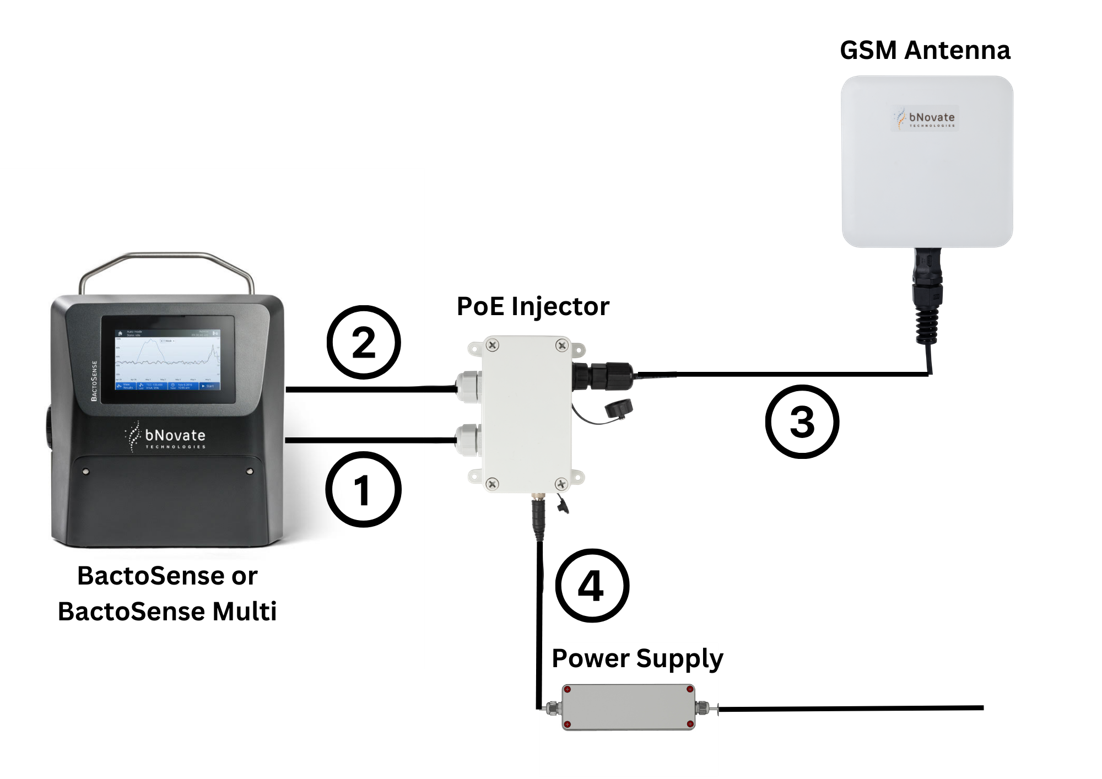
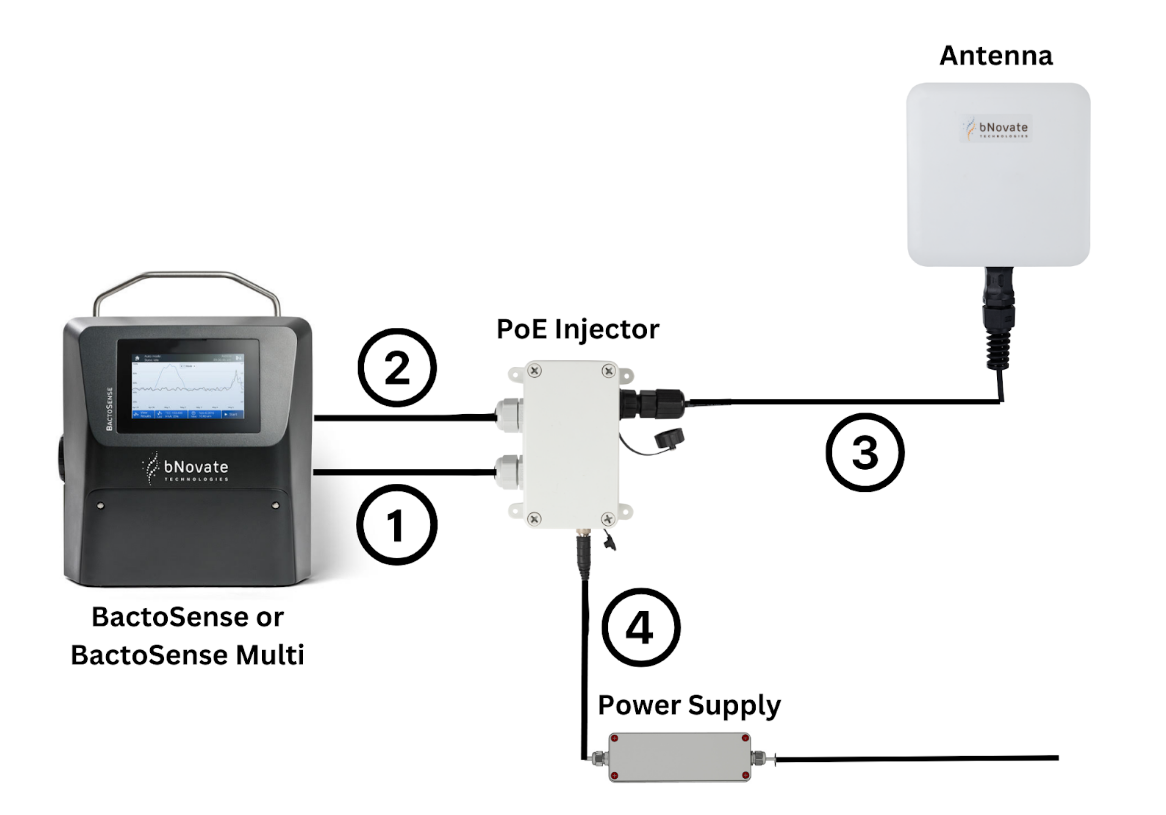
Portal: esthetics

Changed region(s): [[0.0309, 0.0308, 0.9564, 0.9859]]

diff --git a/bnovate/www/connect.html b/bnovate/www/connect.html
@@ -28,7 +28,7 @@
     
     <ol class="wizard-ribbon my-3">
         <li class="wizard-step current" data-step="1">{{ _("Connect Hardware") }}</li>
-        <li class="wizard-step" data-step="2">{{ _("Configure Network") }}</li>
+        <li class="wizard-step" data-step="2">{{ _("Configure BactoSense") }}</li>
         <li class="wizard-step" data-step="3">{{ _("Configure BactoLink") }}</li>
         <li class="wizard-step" data-step="4">{{ _("Connect") }}</li>
     </ol>
@@ -42,11 +42,12 @@
                 </div>
                 <div class="col-lg">
                     <h3>Connect your hardware like in the picture</h2>
-                    <ul>
-                        <li>Power supply to PoE injector</li>
-                        <li>PoE injector to Antenna</li>
-                        <li>PoE injector to BactoSense: ethernet and power</li>
-                    </ul>
+                    <ol>
+                        <li>Ethernet Connection between PoE-Injector and the RS45 port of the BactoSense.</li>
+                        <li>Power Connection between PoE-Injector and power port of the BactoSense.</li>
+                        <li>Ethernet Connection between PoE-Injector and GSM Antenna (10m cable).</li>
+                        <li>Power Supply to PoE-Injector. Note that the Power Supply is delivered with the BactoSense, not with the BactoLink.</li>
+                    </ol>
                 </div>
             </div>
         </div>
@@ -61,6 +62,7 @@
                     <img src="/assets/bnovate/img/guide/service_settings.png" style="border: 0.5px solid black">
                 </div>
                 <div class="col-lg">
+                    <h3>Configure network settings of the BactoSense</h2>
                     <ul>
                         <li>Check whether DHCP is activated. If not, activate.
                             (Home Menu → System Settings → Network)</li>
@@ -79,7 +81,7 @@
             <div class="col-sm m-2">
                 <form id="gateway-info">
                     <label for="teltonika_serial">Serial Number:</label>
-                    <input type="text" id="teltonika_serial" name="teltonika_serial" placeholder="60001xxxxx"" value="{{ serial_no }}" required>
+                    <input type="text" id="teltonika_serial" name="teltonika_serial" placeholder="60001xxxxx"" value="{{ serial_no or '' }}" required>
 
                     <label for="device_name">Friendly Name:</label>
                     <input type="text" id="device_name" name="device_name" placeholder="Mobile Unit, Post-Filtration..." required>
@@ -93,8 +95,12 @@
             </div>
         </div>
     </div>
+
     <div class="wizard-page wizard-summary" id="page4" style="display: none;">
         <div class="row">
+            <div class="col-sm m-2" style="text-align:center">
+                <div id="link-status" style="text-align:left"></div>
+            </div>
             <div class="col-sm m-2">
                 <div id="results-container"><i class="fa fa-cog fa-spin"></i></div>
             </div>
@@ -106,7 +112,8 @@
         <div class="wizard-buttons">
             <button type="button" class="btn btn-secondary" id="prev-button">{{ _("Previous") }}</button>
             <button type="button" class="btn btn-primary" id="next-button">{{ _("Next") }}</button>
-            <button type="button" class="btn btn-primary" id="confirm-button" hidden>{{ _("Connect") }}</button>
+            <button type="button" class="btn btn-primary" id="connect-button" hidden>{{ _("Connect") }}</button>
+            <a type="button" class="btn btn-primary" id="done-button" href="/instruments" hidden>{{ _("Finish") }}</a>
         </div>
     </div>
 
@@ -187,25 +194,22 @@
         });
     }
 
-    async function portal_get_device(device_id) {
-        let resp = await frappe.call({
-            method: 'bnovate.www.connect.portal_get_device',
-            args: {
-                device_id
-            }
-        });
-        return resp.message;
-    }
-
     /********************
     * Page-specific logic
     *********************/
 
     // Initiates auto-configuration of the Gateway. Assumes validate has been called.
     async function connect() {
+        document.querySelector("#done-button").enabled = false;
         let values = get_data();
         draw_progress();
-        return await portal_initialize_device(values.teltonika_serial, values.device_name);
+        let device = await portal_initialize_device(values.teltonika_serial, values.device_name);
+        document.querySelector('#link-status').innerHTML = `
+        <span class="indicator whitespace-nowrap ${device.status ? 'green' : 'red'}">${device.status ? 'Link Online' : 'Link Offline'}</span><br>
+        ${device.operator} <img src="${bnovate.web.signal_icon(device.signal)}" style="max-height: 2em"> <br> ${device.connection_type}[${device.signal} dBm]
+        `
+        document.querySelector("#done-button").enabled = true;
+
     }
 
     frappe.require([

diff --git a/bnovate/www/instruments.html b/bnovate/www/instruments.html
@@ -58,6 +58,9 @@
                     <dd>TBC</dd>
                     {% endif %}
 
+                    <dt>Serial No</dt>
+                    <dd>{{ instrument.serial_no }}</dd>
+
                     <dt>Service Agreement</dt>
                     {% if instrument.sa %}
                     <dd>★☆☆ Essential</dd>
@@ -136,47 +139,6 @@
         });
         return resp.message;
     }
-    
-    /*
-    let btn = document.querySelector("#init-device");
-    btn.addEventListener("click", async (e) => {
-        // TODO: convert this to a wizard modal for guided setup.
-        btn.disabled = true;
-        try {
-            let values = await bnovate.utils.prompt(
-                "Enter device details",
-                [{
-                    label: "BactoLink Serial No",
-                    fieldname: "teltonika_serial",
-                    fieldtype: "Data",
-                    reqd: 1,
-                }, {
-                    label: "Friendly Name for your Instrument",
-                    fieldname: "device_name",
-                    fieldtype: "Data",
-                    reqd: 1,
-                    description: "'Post-Filter', 'Mobile Unit', ...",
-                }],
-                "Connect",
-                "Cancel"
-            )
-
-            if (values) {
-                // TODO: check for errors, actual feedback and not fake progress bar, etc.
-                frappe.show_progress("Initializing BactoLink", 20, 100, "Connecting...");
-                setTimeout(() => frappe.show_progress("Initializing BactoLink", 40, 100, "Scanning Network..."), 1000);
-                setTimeout(() => frappe.show_progress("Initializing BactoLink", 60, 100, "Scanning Ports..."), 3000);
-
-                await portal_initialize_device(values.teltonika_serial, values.device_name);
-                location.reload();
-            }
-
-        } finally {
-            btn.disabled = false;
-        }
-
-    });
-    */
 
 
     // Load status

diff --git a/bnovate/public/js/web_includes/wizard_page.js b/bnovate/public/js/web_includes/wizard_page.js
@@ -16,7 +16,8 @@ class WizardPage {
 
         this.next = document.getElementById("next-button");
         this.prev = document.getElementById("prev-button");
-        this.done = document.getElementById("confirm-button");
+        this.connect = document.getElementById("connect-button");
+        this.done = document.getElementById("done-button");
 
         // Add event listeners to the navigation buttons
         $(this.prev).click(() => {
@@ -32,7 +33,7 @@ class WizardPage {
             $(this.modal).modal("hide");
         });
 
-        $(this.done).click(() => {
+        $(this.connect).click(() => {
             this.confirm();
         });
 
@@ -61,15 +62,17 @@ class WizardPage {
             this.prev.disabled = false;
         }
 
-
         if (this.currentPage == this.numPages) {
             this.next.hidden = true;
-            this.done.hidden = true;
+            this.connect.hidden = true;
+            this.done.hidden = false;
         } else if (this.currentPage == 3) {
             this.next.hidden = true;
-            this.done.hidden = false;
+            this.connect.hidden = false;
+            this.done.hidden = true;
         } else {
             this.next.hidden = false;
+            this.connect.hidden = true;
             this.done.hidden = true;
         }
 
@@ -91,9 +94,9 @@ class WizardPage {
             this.next.disabled = false;
         } else if (this.currentPage == 3) {
             if (this.validate()) {
-                this.done.disabled = false;
+                this.connect.disabled = false;
             } else {
-                this.done.disabled = true;
+                this.connect.disabled = true;
             }
         }
     }
@@ -115,7 +118,7 @@ class WizardPage {
     }
 
     async confirm() {
-        this.done.disabled = true;
+        this.connect.disabled = true;
         this.next_page();
         await this.callback();
     }

diff --git a/bnovate/www/connect.py b/bnovate/www/connect.py
@@ -101,7 +101,7 @@ def auth_remote_session(config_id, device_id):
 
 @frappe.whitelist()
 def portal_initialize_device(teltonika_serial, device_name, task_id=None):
-    """ Scan ports and create remote access configs """
+    """ Scan ports and create remote access configs. Return device details. """
 
     # - Find associated Connectivity Package (CP)
     # - Authenticate: must belong to a linked Customer
@@ -189,6 +189,8 @@ def portal_initialize_device(teltonika_serial, device_name, task_id=None):
     frappe.db.set_value('Connectivity Package', cp.name, 'instrument_serial_no', sn)
     progress[2]["code"] = 0
     set_status(progress, task_id, STATUS_DONE)
+
+    return _rms_get_device(cp.rms_id, auth=False)
 
 @frappe.whitelist()
 def portal_start_session(config_id, device_id):
